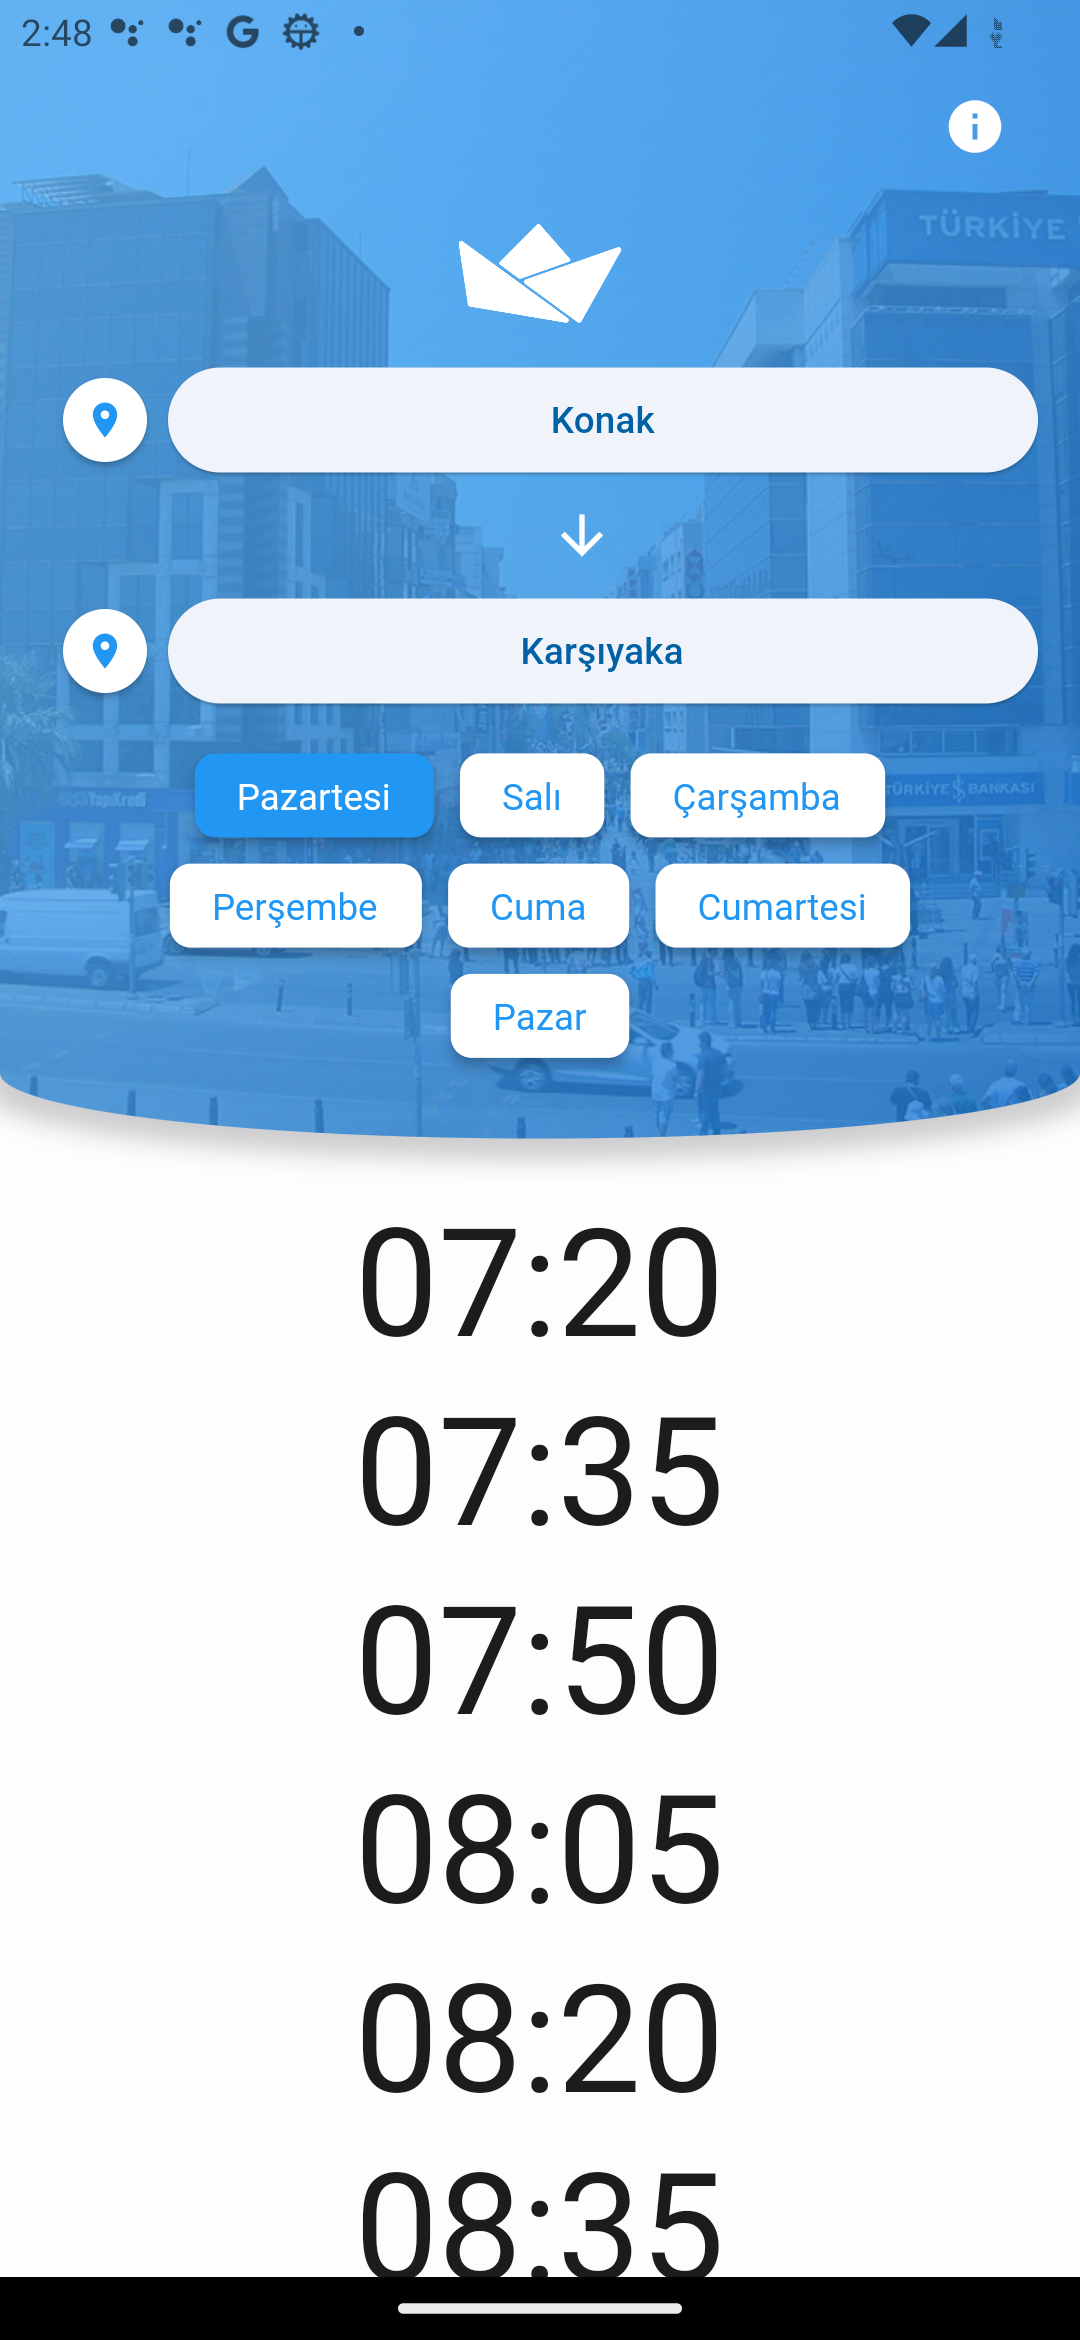
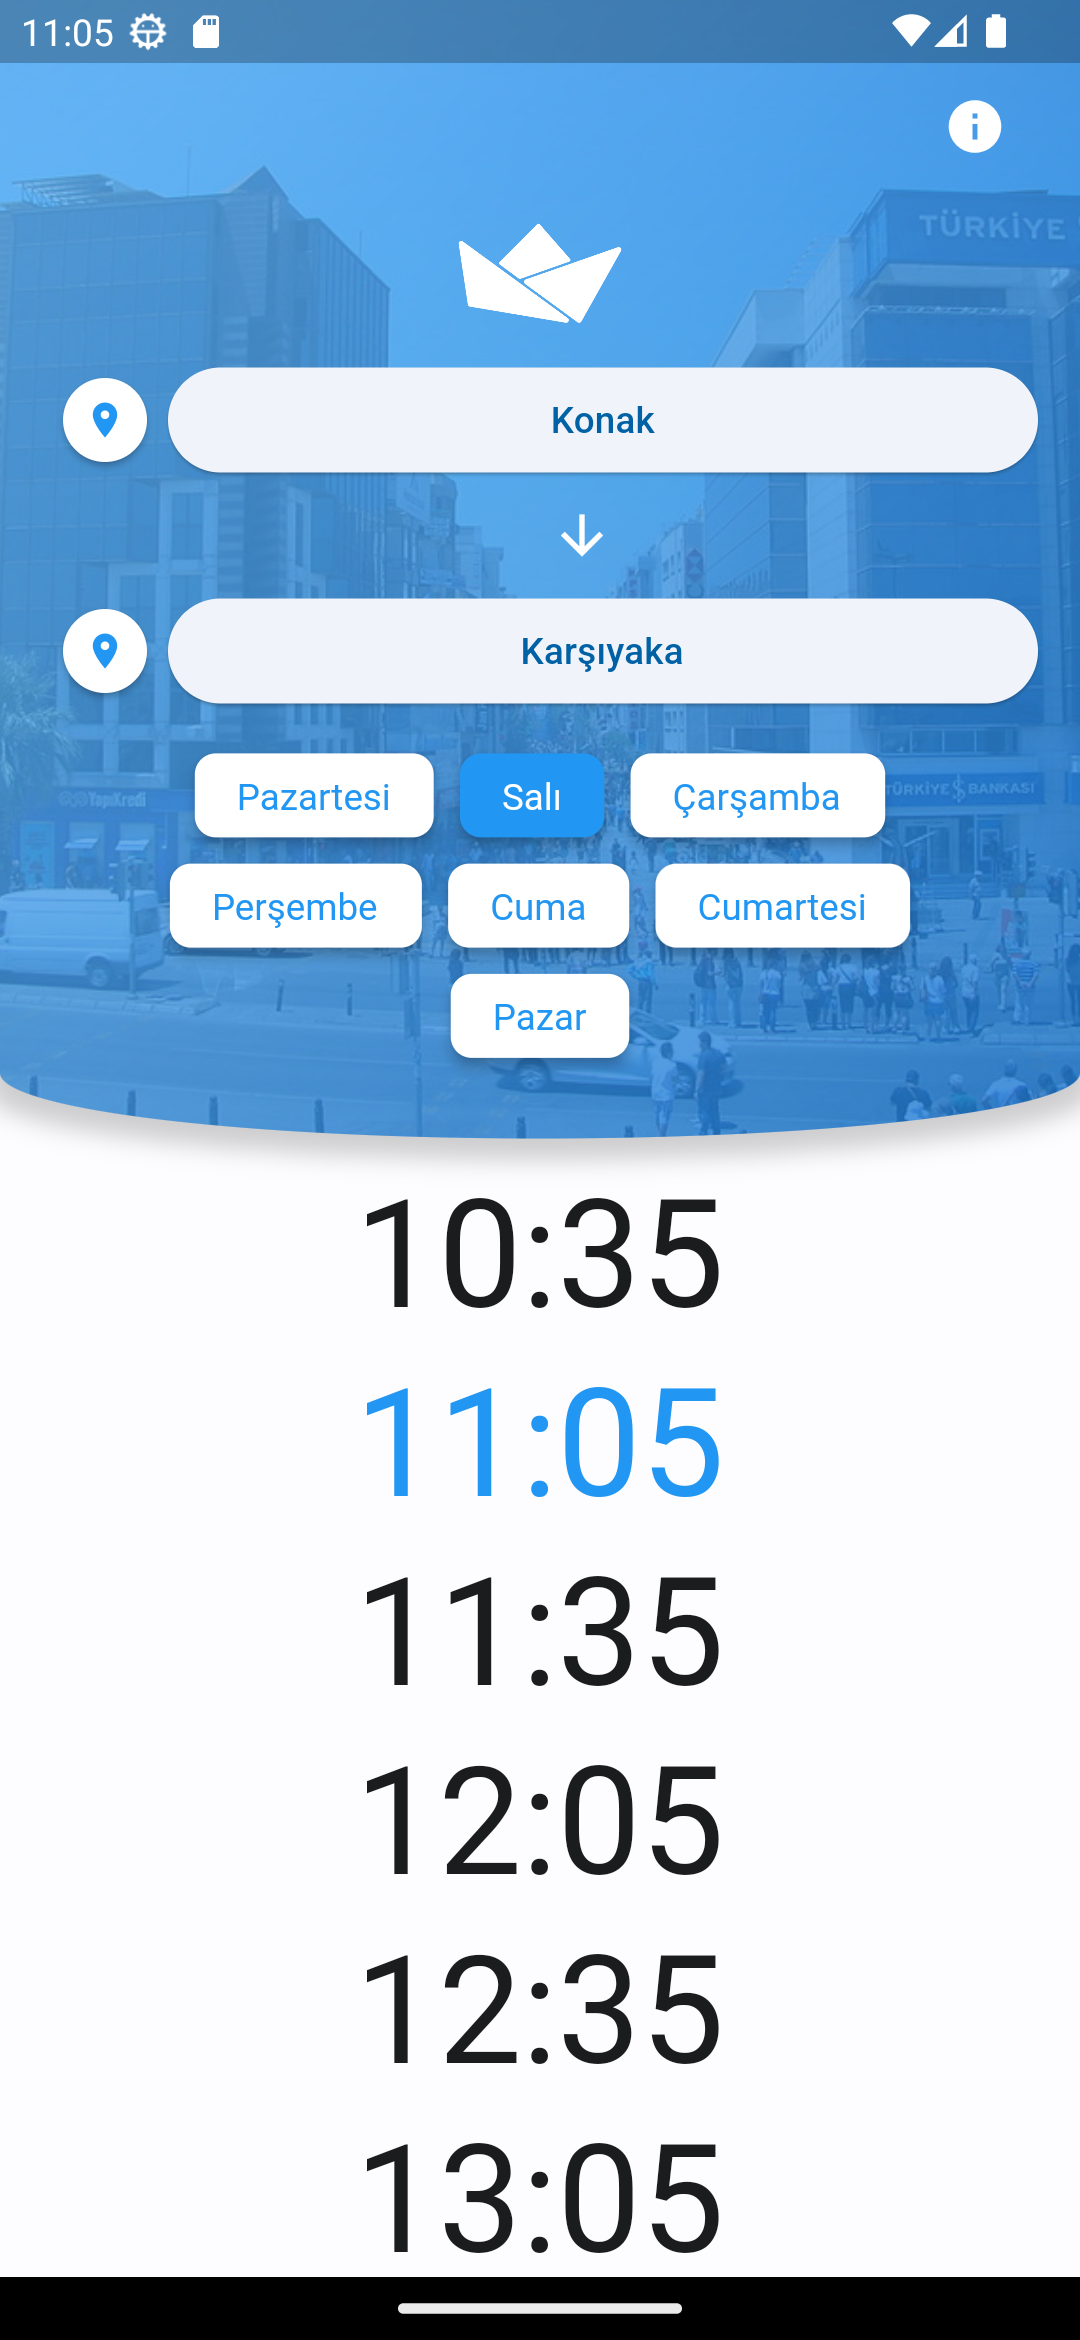
Autoscroll to Next Schedule (#17)
* add StringTimeExtension.timeValue

* add DateTimeTimeExtension.timeRepr

* change color of next schedule

* color next schedule if the day is today

* install scrollable_positioned_list

* scroll to next hour on the current day

* update changelog

* add new phone screenshot

Changed region(s): [[0.3361, 0.4991, 0.6722, 0.9983], [0.0, 0.0, 1.0, 0.0312], [0.1833, 0.312, 0.5806, 0.3744]]

diff --git a/lib/shared/presentation/pages/home/schedules_list.component.dart b/lib/shared/presentation/pages/home/schedules_list.component.dart
@@ -7,13 +7,20 @@
 import 'package:awesome_extensions/awesome_extensions.dart';
 import 'package:easy_localization/easy_localization.dart';
 import 'package:flutter/material.dart';
+import 'package:flutter_bloc/flutter_bloc.dart';
+import 'package:izmirferry/ferry/logic/station/station_bloc.dart';
+import 'package:izmirferry/shared/constants.dart';
+import 'package:scrollable_positioned_list/scrollable_positioned_list.dart';
 
 class SchedulesListComponent extends StatelessWidget {
   final List<String> schedules;
+  final String? nextSchedule;
+  final _itemScrollController = ItemScrollController();
 
-  const SchedulesListComponent({
+  SchedulesListComponent({
     Key? key,
     required this.schedules,
+    this.nextSchedule,
   }) : super(key: key);
 
   @override
@@ -22,11 +29,27 @@ class SchedulesListComponent extends StatelessWidget {
       return const Text('no_schedules_found').tr().toCenter();
     }
 
-    return ListView.separated(
-      itemBuilder: (context, index) => Text(
-        schedules[index],
-        style: context.textTheme.displayLarge,
-      ).toCenter(),
+    WidgetsBinding.instance.addPostFrameCallback((_) {
+      final today = DateTime.now().dayValue;
+      final Day stateDay = context.read<StationBloc>().currentParams['day'];
+
+      if (today == stateDay && nextSchedule != null) {
+        final scrollIndex = schedules.indexOf(nextSchedule!);
+        _itemScrollController.scrollTo(index: scrollIndex, duration: 2.seconds);
+      }
+    });
+
+    return ScrollablePositionedList.separated(
+      itemScrollController: _itemScrollController,
+      itemBuilder: (context, index) {
+        final schedule = schedules[index];
+        return Text(
+          schedule,
+          style: schedule == nextSchedule
+              ? context.textTheme.displayLarge?.copyWith(color: Colors.blue)
+              : context.textTheme.displayLarge,
+        ).toCenter();
+      },
       separatorBuilder: (context, index) => 8.heightBox,
       itemCount: schedules.length,
     );

diff --git a/lib/shared/presentation/pages/home/home.page.dart b/lib/shared/presentation/pages/home/home.page.dart
@@ -6,6 +6,7 @@
 
 import 'package:auto_route/auto_route.dart';
 import 'package:awesome_extensions/awesome_extensions.dart';
+import 'package:collection/collection.dart';
 import 'package:flutter/material.dart';
 import 'package:flutter_bloc/flutter_bloc.dart';
 import 'package:get_it/get_it.dart';
@@ -13,6 +14,7 @@ import 'package:izmirferry/ferry/constants.dart';
 import 'package:izmirferry/ferry/data/models/station/station.model.dart';
 import 'package:izmirferry/ferry/logic/station/station_bloc.dart';
 import 'package:izmirferry/shared/constants.dart';
+import 'package:izmirferry/shared/extensions/time.dart';
 import 'package:izmirferry/shared/presentation/pages/home/app_bar.component.dart';
 import 'package:izmirferry/shared/presentation/pages/home/days_menu.component.dart';
 import 'package:izmirferry/shared/presentation/pages/home/schedules_list.component.dart';
@@ -158,9 +160,23 @@ class _Body extends StatelessWidget {
     return BlocBuilder<StationBloc, StationState>(
       builder: (context, state) => state.map(
         loading: (state) => const CircularProgressIndicator().toCenter(),
-        loaded: (state) => SchedulesListComponent(
-          schedules: state.schedules.toList(),
-        ),
+        loaded: (state) {
+          final now = DateTime.now();
+
+          final schedules = state.schedules.toList(growable: false);
+          final nowTimeVal = now.timeRepr.timeValue;
+          final nextSchedule = schedules.firstWhereOrNull(
+            (e) => e.timeValue > nowTimeVal,
+          );
+
+          final Day stateDay = context.read<StationBloc>().currentParams['day'];
+          final today = now.dayValue;
+
+          return SchedulesListComponent(
+            schedules: schedules,
+            nextSchedule: stateDay == today ? nextSchedule : null,
+          );
+        },
       ),
     );
   }

diff --git a/test/time_extension_test.dart b/test/time_extension_test.dart
@@ -1,0 +1,35 @@
+// Copyright (c) 2023 Eray Erdin
+//
+// This Source Code Form is subject to the terms of the Mozilla Public
+// License, v. 2.0. If a copy of the MPL was not distributed with this
+// file, You can obtain one at http://mozilla.org/MPL/2.0/.
+
+import 'package:flutter_test/flutter_test.dart';
+import 'package:izmirferry/shared/extensions/time.dart';
+
+void main() {
+  group('string extension', () {
+    test('-- valid', () {
+      final vals = [
+        '05:42'.timeValue,
+        '19:30'.timeValue,
+        '09:05'.timeValue,
+      ];
+      expect(vals, equals([542, 1930, 905]));
+    });
+
+    // TODO write invalid test
+  });
+
+  group('datetime extension', () {
+    test('-- leading zero on hour', () {
+      final dt = DateTime(1994, 12, 5, 3, 30);
+      expect(dt.timeRepr, equals('03:30'));
+    });
+
+    test('-- leading zero on minute', () {
+      final dt = DateTime(1994, 12, 5, 3, 5);
+      expect(dt.timeRepr, equals('03:05'));
+    });
+  });
+}

diff --git a/lib/shared/extensions/time.dart b/lib/shared/extensions/time.dart
@@ -1,0 +1,24 @@
+// Copyright (c) 2023 Eray Erdin
+//
+// This Source Code Form is subject to the terms of the Mozilla Public
+// License, v. 2.0. If a copy of the MPL was not distributed with this
+// file, You can obtain one at http://mozilla.org/MPL/2.0/.
+
+// i know this might look stupid
+// but it works at the end of the day
+
+extension StringTimeExtension on String {
+  int get timeValue {
+    // TODO add validation and throw FormatException
+    final normalized = replaceAll(':', '');
+    return int.parse(normalized);
+  }
+}
+
+extension DateTimeTimeExtension on DateTime {
+  String get timeRepr {
+    final normalizedHour = hour.toString().padLeft(2, '0');
+    final normalizedMinute = minute.toString().padLeft(2, '0');
+    return '$normalizedHour:$normalizedMinute';
+  }
+}

diff --git a/CHANGELOG.md b/CHANGELOG.md
@@ -12,6 +12,7 @@ and this project adheres to [Semantic Versioning].
 #### Changed
 
  - Now the default day automatically switches to current day.
+ - Now the list of hours scrolls to the next hour automatically on the current day.
 
 ### For Devs
 
@@ -24,6 +25,7 @@ and this project adheres to [Semantic Versioning].
  - Separated `getEndStations` to `StationProvider` and `StationRepository`
  - Renamed and refactored `Days` enum to `Day`
  - Renamed `DaysExtension` to `DayExtension`
+ - Changed `ListView` to `ScrollablePositionedList` in `SchedulesListComponent`
 
 ## [0.1.4] - 02.06.2023
 
